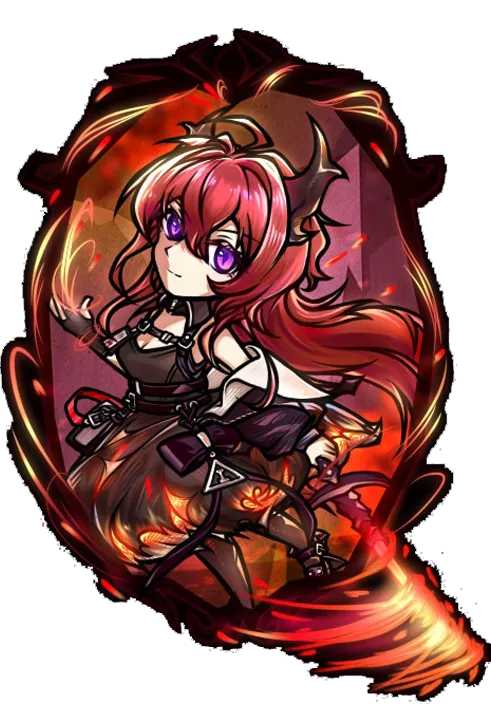
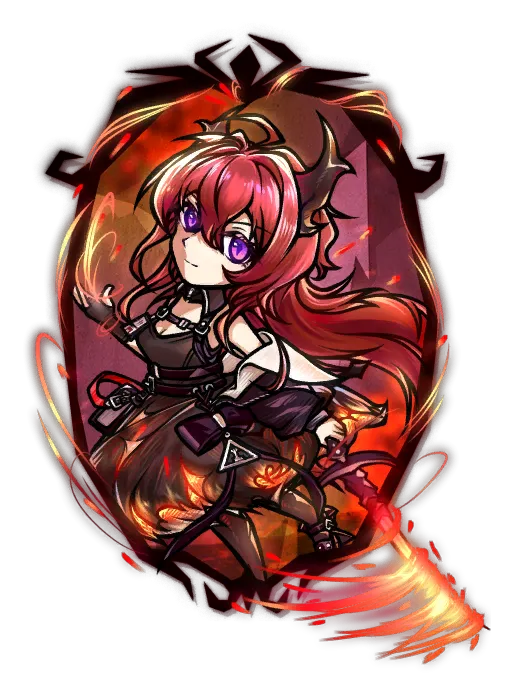
更换史尔特尔立绘，优化readme

diff --git a/other_character/navigation.html b/other_character/navigation.html
@@ -2,5 +2,5 @@
   <a href="../index.html">首页</a>
   <a href="index.html">人物分区1</a>
   <a href="surtr/index.html">史尔特尔</a>
-  <a href="dusk/index.html">夕</a>
+  <a href="#">夕</a>
 </nav>

diff --git a/readme.md b/readme.md
@@ -1,3 +1,13 @@
-# 饥荒联机版MOD介绍——星极&星源
+# 饥荒联机版MOD介绍
+
+## 星极&星源
 
 点击前往介绍页面：[星极&星源](https://dst-astesiaastgenne.github.io/)
+
+## 史尔特尔
+
+点击前往介绍页面：[史尔特尔](https://dst-astesiaastgenne.github.io/other_character/surtr/index.html)
+
+## 夕
+
+点击前往介绍页面：[夕]（完善中）
